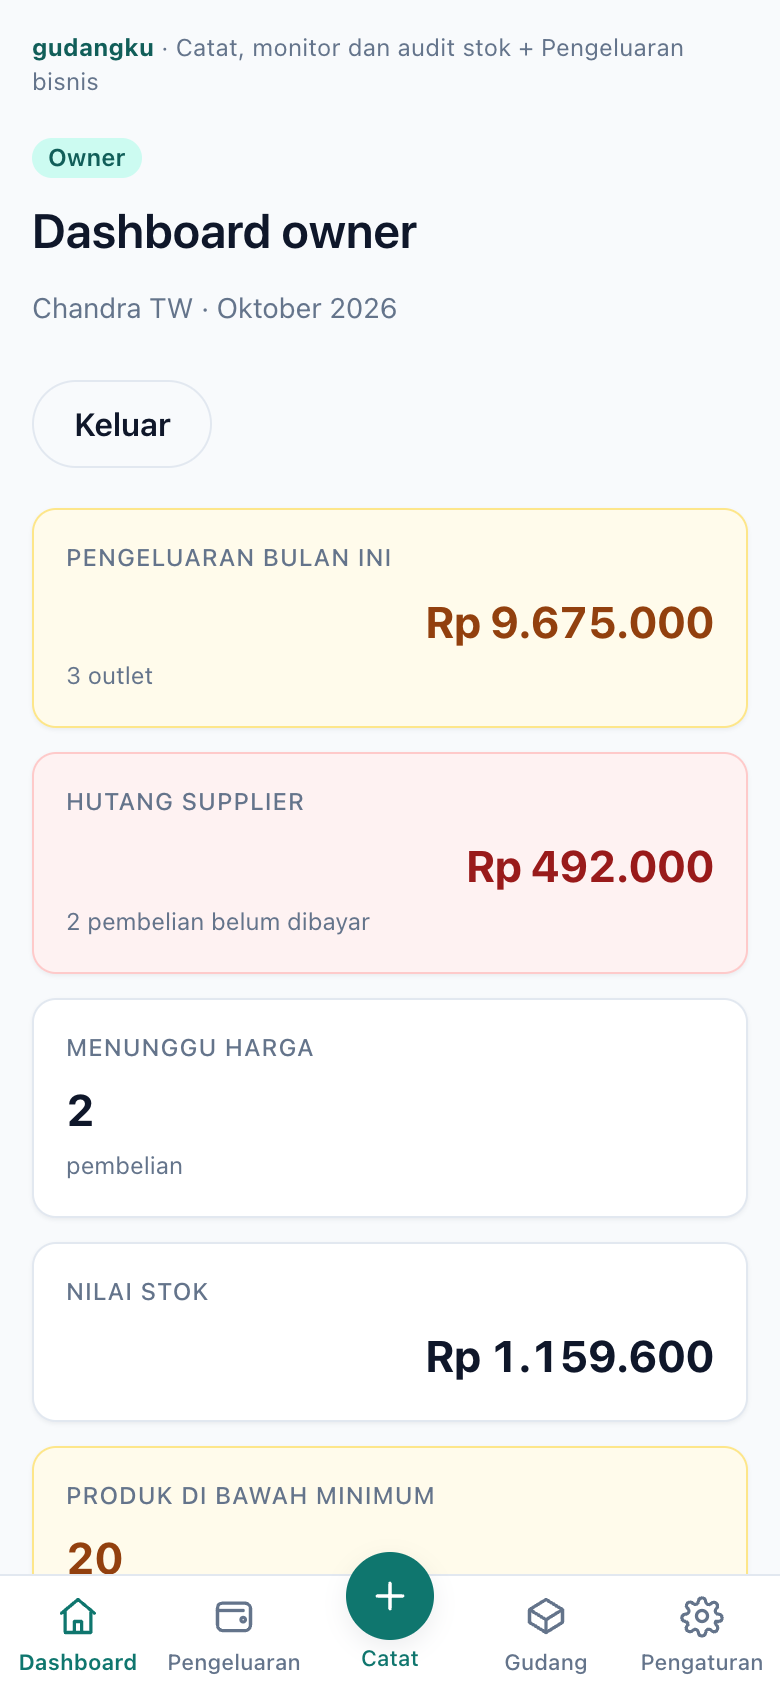
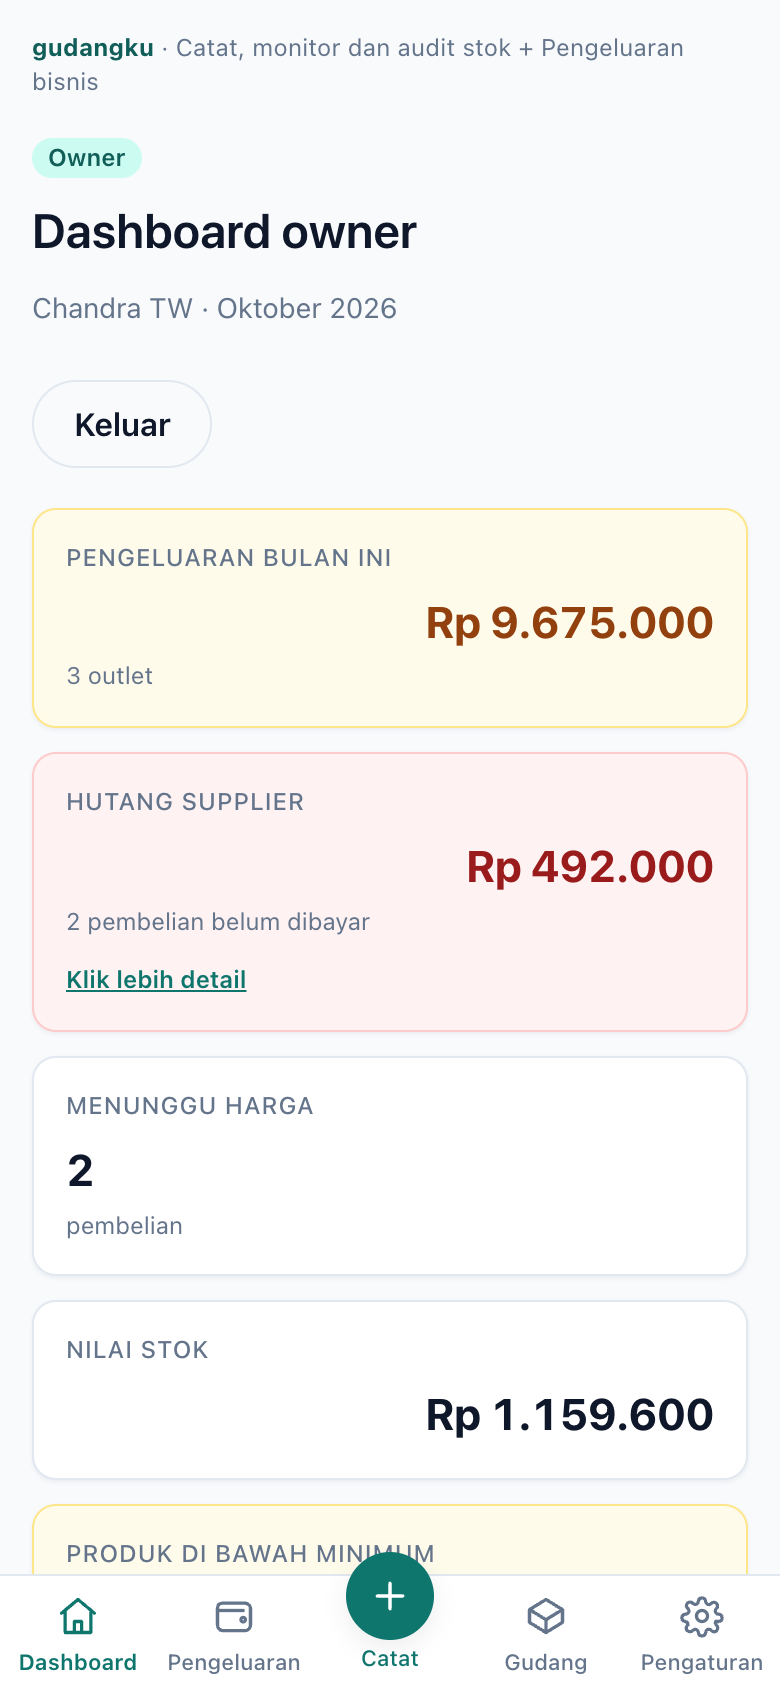
docs: supplier debt detail feature and screenshots

Changed region(s): [[0.0308, 0.7701, 0.9231, 0.955], [0.0615, 0.5545, 0.4, 0.8009], [0.0308, 0.5853, 0.0615, 0.6161]]

diff --git a/docs/UJI.md b/docs/UJI.md
@@ -4,7 +4,7 @@ Merujuk `PRD_gudangku.md` bagian 16. Setiap butir punya bukti: nama test otomati
 
 - Tanggal uji: 28 Oktober 2026
 - Lingkungan live: https://43.173.41.195.sslip.io (PHP 8.5.12, MySQL 8.0.46, nginx 1.24.0)
-- Test otomatis: `php artisan test` → **180 passed, 768 assertions**
+- Test otomatis: `php artisan test` → **186 passed, 792 assertions**
 - Audit: `composer audit` bersih, `npm audit` 0 vulnerability
 
 | No | Butir | Status | Bukti |
@@ -30,7 +30,7 @@ Merujuk `PRD_gudangku.md` bagian 16. Setiap butir punya bukti: nama test otomati
 | 19 | Setelah opname disimpan, pengingat hilang dan stok sama dengan jumlah hitung | Lulus | `StockOpnameTest::test_reminder_disappears_after_opname`, `test_manager_can_submit_opname_and_stock_equals_counted`; live: `opname_due` false, `BTL-PRF` 30 → 28 |
 | 20 | Selisih opname menulis movement adjustment; selisih nol tidak menulis movement | Lulus | `StockOpnameTest::test_only_non_zero_differences_write_adjustment_movements` (2 movement untuk 2 produk berselisih); live: hanya `BTL-PRF -2` yang tercatat |
 | 21 | Opname kedua di minggu yang sama ditolak | Lulus | `StockOpnameTest::test_second_opname_in_same_week_is_rejected`; live: jumlah opname per outlet tetap 1 setelah percobaan kedua |
-| 22 | Dashboard owner menampilkan status opname per outlet untuk minggu berjalan | Lulus | `DashboardTest::test_outlet_status_marks_opname_per_outlet`; live: `CKR-01` sudah, `CKR-02` belum |
+| 22 | Dashboard owner menampilkan status opname per outlet untuk minggu berjalan | Lulus | `DashboardTest::test_outlet_status_marks_opname_per_outlet`; live: `KDM-01` (Kedungmundu) sudah, `TMB-01` dan `ALT-01` belum |
 | 23 | Total pengeluaran bulan ini di dashboard sama dengan query langsung ke database | Lulus | `DashboardTest::test_owner_dashboard_numbers_match_database`; live: `9.675.000` di props = `9.675.000,00` di SQL |
 | 24 | Produk di bawah minimum muncul di dashboard dan halaman produk | Lulus | `DashboardTest::test_below_min_products_are_listed_for_owner`, `ProductTest` (panel "Perlu restock"); live: `belowMin` 10 baris |
 | 25 | Semua form store dan update memakai FormRequest | Lulus | 14 FormRequest di `app/Http/Requests`; route store/update tidak menerima `Request` biasa |
@@ -47,7 +47,8 @@ Merujuk `PRD_gudangku.md` bagian 16. Setiap butir punya bukti: nama test otomati
 | 36 | Menu Gudang tersedia untuk owner (bottom navigation) dan memuat aksi tambah outlet serta tambah kategori barang | Lulus | `WarehouseTest` (5 test): owner `/warehouse` 200, manajer 403, tamu 302, `/master-data?new=1` menghasilkan `openCreate=true`, `/outlets?new=1` menghasilkan `openCreate=true` |
 | 37 | Database Supplier menyimpan informasi lengkap pemasok: kontak, alamat, lead time, dan term of payment dalam hari | Lulus | `SupplierTest` (9 test): halaman memuat field lengkap, simpan/ubah lead time + TOP angka hari, TOP berupa teks (`NET 30`) ditolak dengan pesan "Term of payment harus berupa angka hari", lead time di luar 0–365 ditolak, supplier yang dipakai pembelian tidak bisa dihapus, manajer 403. Bukti live: kolom TOP menampilkan `30 hari` dan `14 hari`; `input[type=number]` menolak teks di sisi klien dan server tetap menolak walau dikirim manual |
 | 38 | Harga Barang memuat kode, nama, satuan (pcs/dus/kg), ID supplier, harga satuan, dan tanggal update harga | Lulus | `ProductTest` + `ProductController`: satuan dibatasi `pcs/dus/kg`, `price_updated_at` diisi server saat barang dibuat dan diperbarui hanya kalau harga berubah |
-| 39 | Kelola Karyawan menyimpan nama, gaji, dan satuan gaji (harian/mingguan/bulanan), dikelompokkan per outlet | Lulus | `EmployeeTest` (12 test): outlet wajib dipilih, filter `?outlet=` hanya menampilkan karyawan outlet tersebut, karyawan bisa dipindah antar outlet, outlet yang masih punya karyawan tidak bisa dihapus, 3 pilihan satuan gaji, gaji negatif dan satuan gaji tidak dikenal ditolak, toggle status, hapus, manajer 403. Bukti live: ringkasan "Karyawan per outlet" menampilkan CKR-01 = 2 karyawan, CKR-02 = 1 karyawan; filter outlet menandai baris aktif; form kosong menghasilkan pesan "Pilih outlet untuk karyawan ini." |
+| 39 | Kelola Karyawan menyimpan nama, gaji, dan satuan gaji (harian/mingguan/bulanan), dikelompokkan per outlet | Lulus | `EmployeeTest` (12 test): outlet wajib dipilih, filter `?outlet=` hanya menampilkan karyawan outlet tersebut, karyawan bisa dipindah antar outlet, outlet yang masih punya karyawan tidak bisa dihapus, 3 pilihan satuan gaji, gaji negatif dan satuan gaji tidak dikenal ditolak, toggle status, hapus, manajer 403. Bukti live: ringkasan "Karyawan per outlet" menampilkan Kedungmundu = 8 karyawan, Tembalang = 4 karyawan, Alton = 2 karyawan; filter outlet menandai baris aktif; form kosong menghasilkan pesan "Pilih outlet untuk karyawan ini." |
+| 40 | Kartu "Hutang supplier" di dashboard menampilkan nominal dan jumlah pembelian belum dibayar, bisa diklik, dan membuka halaman detail barang yang belum dibayar | Lulus | `SupplierDebtTest` (6 test): angka ringkasan sama dengan `Purchase::unpaid()`, detail memuat nama produk + jumlah + harga satuan + subtotal (subtotal = harga × jumlah), pembelian yang sudah dibayar hilang dari daftar, filter outlet, manajer 403, tamu 302. Bukti live: kartu bertag `A` dengan `href=/supplier-debts`, ajakan "Klik lebih detail", nominal `Rp 492.000` + "2 pembelian belum dibayar"; halaman menampilkan PT Sumber Gas Nusantara (Rp 375.000) dan CV Aroma Kemas Nusantara (Rp 117.000) beserta barangnya; tombol "Tandai dibayar" tersedia per pembelian |
 
 ## Uji manual tambahan di live
 

diff --git a/docs/PRESENTASI.md b/docs/PRESENTASI.md
@@ -180,6 +180,7 @@ Grup route: `/*` publik (login/register), `auth` (dashboard, produk, penerimaan,
 12. Laporan owner per periode dan outlet.
 13. Ekspor Excel pengeluaran per outlet per bulan, empat sheet: Ringkasan (outlet × bulan), Per Kategori (per bulan per kategori + subtotal), Pembelian Produk (per bulan per kategori produk, mis. Gas LPG), dan Rincian.
 14. Menu Gudang dengan empat kartu yang seluruhnya bisa diklik: Kelola Outlet, Database Supplier (lead time hari + term of payment dalam hari, contoh 7/14/30), Harga Barang (satuan pcs/dus/kg, harga satuan, tanggal update harga), dan Kelola Karyawan (dikelompokkan per outlet; gaji + satuan gaji).
+15. Kartu hutang supplier di dashboard menampilkan nominal + jumlah pembelian belum dibayar, bertuliskan "Klik lebih detail", dan membuka halaman detail barang per supplier (produk, jumlah, harga satuan, subtotal, total supplier) dengan tombol Tandai dibayar.
 
 ## 10. Screenshot (mobile 390px)
 
@@ -194,6 +195,7 @@ Semua file di `docs/screenshots/`, diambil pada viewport 390×844 (2× DPR) mema
 | `21-outlet.png` | Kelola Outlet: kolom ID dan Nama Outlet, tanpa kolom transaksi |
 | `22-supplier.png` | Database Supplier: kontak, alamat, lead time (hari), dan term of payment (TOP) dalam hari |
 | `23-karyawan.png` | Kelola Karyawan dikelompokkan per outlet: ringkasan per outlet, kolom outlet, gaji, dan satuan gaji |
+| `24-hutang-supplier.png` | Halaman Hutang Supplier: barang per supplier yang belum dibayar, subtotal, dan tombol Tandai dibayar |
 | `18-tambah-kategori.png` | Form tambah kategori terbuka langsung dari menu Gudang |
 | `19-tambah-outlet.png` | Form tambah outlet terbuka langsung dari menu Gudang |
 | `16-dashboard-tagline.png` | Tagline di header aplikasi (dashboard owner) |
@@ -229,7 +231,7 @@ Detail lengkap dan 6 masalah nyata saat deploy: `docs/DEPLOY_VPS.md`.
 
 | Bukti | Angka |
 | :--- | :--- |
-| Test otomatis | 133 test, 609 assertion, semua lulus |
+| Test otomatis | 186 test, 792 assertion, semua lulus |
 | Matriks route × role di live | 48 pemeriksaan, 0 menyimpang |
 | Pemeriksaan mobile (390px & 360px) | 28 halaman, 0 overflow horizontal, bottom nav 57px, target sentuh ≥ 44px |
 | `composer audit` | bersih (CVE-2026-45070 dipatch ke symfony/mime 8.1.10) |

diff --git a/README.md b/README.md
@@ -39,6 +39,7 @@ Register publik hanya membuat akun **manajer nonaktif**. Akun tersebut tidak bis
     - **Database Supplier** — informasi lengkap pemasok: ID, nama, kontak/telepon, alamat, **lead time (hari pengiriman)**, dan **term of payment (TOP) dalam hari** (contoh: 7, 14, atau 30 hari).
     - **Harga Barang** — kode barang, nama barang, **satuan (pcs/dus/kg, bawaan pcs)**, ID supplier, **harga satuan dalam Rupiah**, dan **tanggal update harga** (diisi otomatis oleh server).
     - **Kelola Karyawan** — daftar karyawan **dikelompokkan per outlet**, berisi nama karyawan, gaji, dan satuan gaji (harian, mingguan, bulanan). Outlet wajib dipilih dan daftar bisa disaring per outlet.
+15. **Detail hutang supplier** — kartu "Hutang supplier" di dashboard menampilkan nominal **dan** jumlah pembelian yang belum dibayar, bertuliskan *Klik lebih detail*, dan seluruh kartunya bisa diklik menuju halaman **Hutang Supplier**: daftar barang per supplier (nama produk, jumlah, harga satuan, subtotal), total tiap supplier, filter outlet, tombol **Tandai dibayar**, dan tautan ke detail penerimaan.
 
 ## Stack
 
@@ -112,7 +113,7 @@ php artisan config:cache && php artisan route:cache && php artisan view:cache
 ## Pengujian
 
 ```bash
-php artisan test        # 180 test, 768 assertion
+php artisan test        # 186 test, 792 assertion
 composer audit          # tanpa advisory
 npm audit               # 0 vulnerability
 ```
